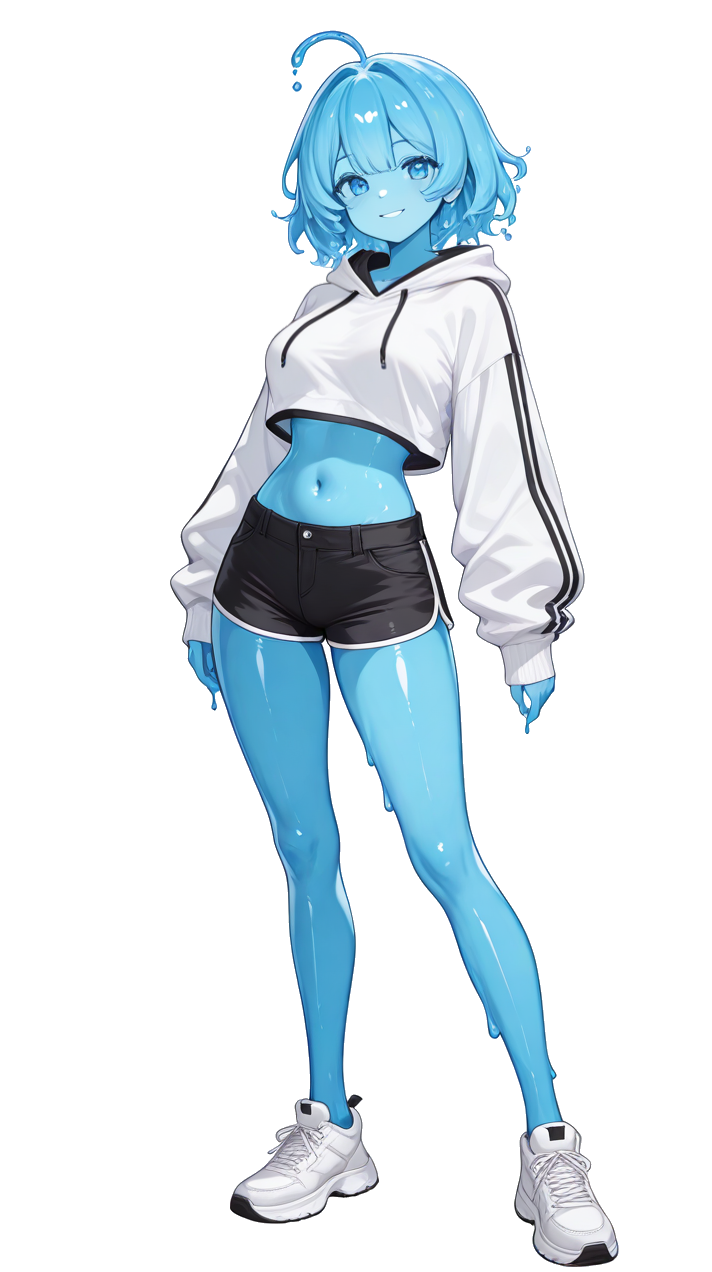
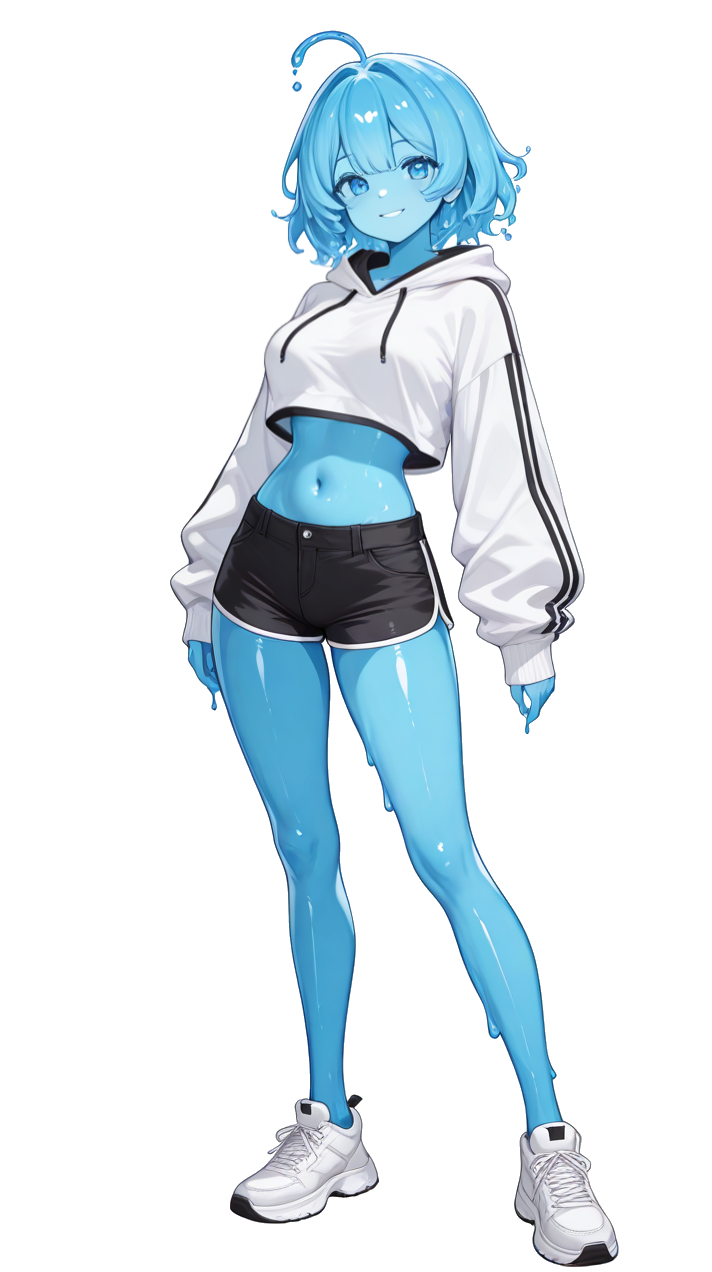
reaction fix

Changed region(s): [[0.3399, 0.184, 0.618, 0.3679], [0.5253, 0.3373, 0.5871, 0.3986]]

diff --git a/SlimeHelper/ActivityWatcher.cs b/SlimeHelper/ActivityWatcher.cs
@@ -11,7 +11,7 @@ namespace SlimeHelper
         private DateTime _workStartTime = DateTime.Now;
         private int _streakMinutes = 0;
         private bool _isCurrentlyAfk = false;
-        private int _gitCheckCounter = 0; // Håller koll på när vi ska köra git-koll
+        private int _gitCheckCounter = 0;
 
         public event Action<string, string>? OnReaction;
 
@@ -21,10 +21,14 @@ namespace SlimeHelper
         private static LowLevelKeyboardProc? _proc;
         private static DateTime _lastKeyboardActivity = DateTime.Now;
 
-        private static bool _wasAsleep = false;
+        // En instans-referens så att den statiska hooken kan nå händelsen
+        private static ActivityWatcher? _instance;
+
+        private readonly Random _rng = new();
 
         public ActivityWatcher()
         {
+            _instance = this;
             _proc = HookCallback;
             _hookID = SetHook(_proc);
 
@@ -37,7 +41,14 @@ namespace SlimeHelper
             {
                 if (!_isCurrentlyAfk)
                 {
-                    OnReaction?.Invoke("IDLE", SlimeResponses.PickRandom(SlimeResponses.IdleThoughts));
+                    string randomThought = SlimeResponses.PickRandom(SlimeResponses.IdleThoughts);
+
+                    // En array med roliga statusar/animationer hon kan växla mellan
+                    string[] randomReactions = { "IDLE", "CUTE", "THINKING", "HURRAY" };
+                    string selectedReaction = randomReactions[_rng.Next(randomReactions.Length)];
+
+                    // Skicka med den slumpade reaktionen istället för att alltid köra "IDLE"
+                    OnReaction?.Invoke(selectedReaction, randomThought);
                 }
             };
             _idleTalkTimer.Start();
@@ -47,25 +58,27 @@ namespace SlimeHelper
         {
             double inactiveMinutes = (DateTime.Now - _lastKeyboardActivity).TotalMinutes;
 
+            // Om vi är inaktiva i mer än 6 minuter -> gå in i SLEEP och stanna där!
             if (inactiveMinutes > 6)
             {
                 if (!_isCurrentlyAfk)
                 {
                     _isCurrentlyAfk = true;
-                    _wasAsleep = true;
                     _streakMinutes = 0;
                     OnReaction?.Invoke("SLEEP", "Zzz...");
                 }
+                // VIKTIGT: Returnera direkt här så att inga andra IDLE- eller streak-regler körs medan hon sover!
                 return;
             }
 
+            // Om hon var AFK/sover men vi fångar upp att inaktiviteten är borta
             if (_isCurrentlyAfk)
             {
                 _isCurrentlyAfk = false;
                 OnReaction?.Invoke("IDLE", "Oh, you're back!");
             }
 
-            // Git-koll var 5:e minut (30 sekunder * 10 = 5 minuter)
+            // Git-koll var 5:e minut
             _gitCheckCounter++;
             if (_gitCheckCounter >= 10)
             {
@@ -90,7 +103,7 @@ namespace SlimeHelper
             }
             else
             {
-                _streakMinutes = 0; // Död direkt om man är inaktiv i 2 min
+                _streakMinutes = 0;
             }
         }
 
@@ -98,7 +111,6 @@ namespace SlimeHelper
         {
             try
             {
-                // Kör git status för mappen där appen körs (eller anpassa sökvägen till ditt repo)
                 string repoPath = Directory.GetCurrentDirectory();
 
                 var psi = new ProcessStartInfo
@@ -117,7 +129,6 @@ namespace SlimeHelper
                     string output = process.StandardOutput.ReadToEnd();
                     process.WaitForExit();
 
-                    // Om output inte är tom har vi ocommittade ändringar
                     if (!string.IsNullOrWhiteSpace(output))
                     {
                         OnReaction?.Invoke("DIRTY", SlimeResponses.PickRandom(SlimeResponses.UncommittedResponses));
@@ -125,7 +136,6 @@ namespace SlimeHelper
                     }
                 }
 
-                // Kolla även om vi har opushade commits (ahead)
                 psi.Arguments = "log @{u}..HEAD --oneline";
                 using var pushProcess = Process.Start(psi);
                 if (pushProcess != null)
@@ -139,10 +149,7 @@ namespace SlimeHelper
                     }
                 }
             }
-            catch
-            {
-                // Ignorera om git inte finns tillgängligt i mappen
-            }
+            catch { }
         }
 
         private delegate IntPtr LowLevelKeyboardProc(int nCode, IntPtr wParam, IntPtr lParam);
@@ -160,12 +167,14 @@ namespace SlimeHelper
         {
             if (nCode >= 0)
             {
-                _lastKeyboardActivity = DateTime.Now;
-
-                if (_wasAsleep)
+                // Om hon sov tidigare och vi nu trycker på en tangent -> väck henne direkt!
+                if (_instance != null && _instance._isCurrentlyAfk)
                 {
-                    _wasAsleep = false;
+                    _instance._isCurrentlyAfk = false;
+                    _instance.OnReaction?.Invoke("IDLE", "Oh, you're back!");
                 }
+
+                _lastKeyboardActivity = DateTime.Now;
             }
             return CallNextHookEx(_hookID, nCode, wParam, lParam);
         }
@@ -194,6 +203,7 @@ namespace SlimeHelper
                     _hookID = IntPtr.Zero;
                 }
 
+                _instance = null;
                 _disposed = true;
             }
         }
